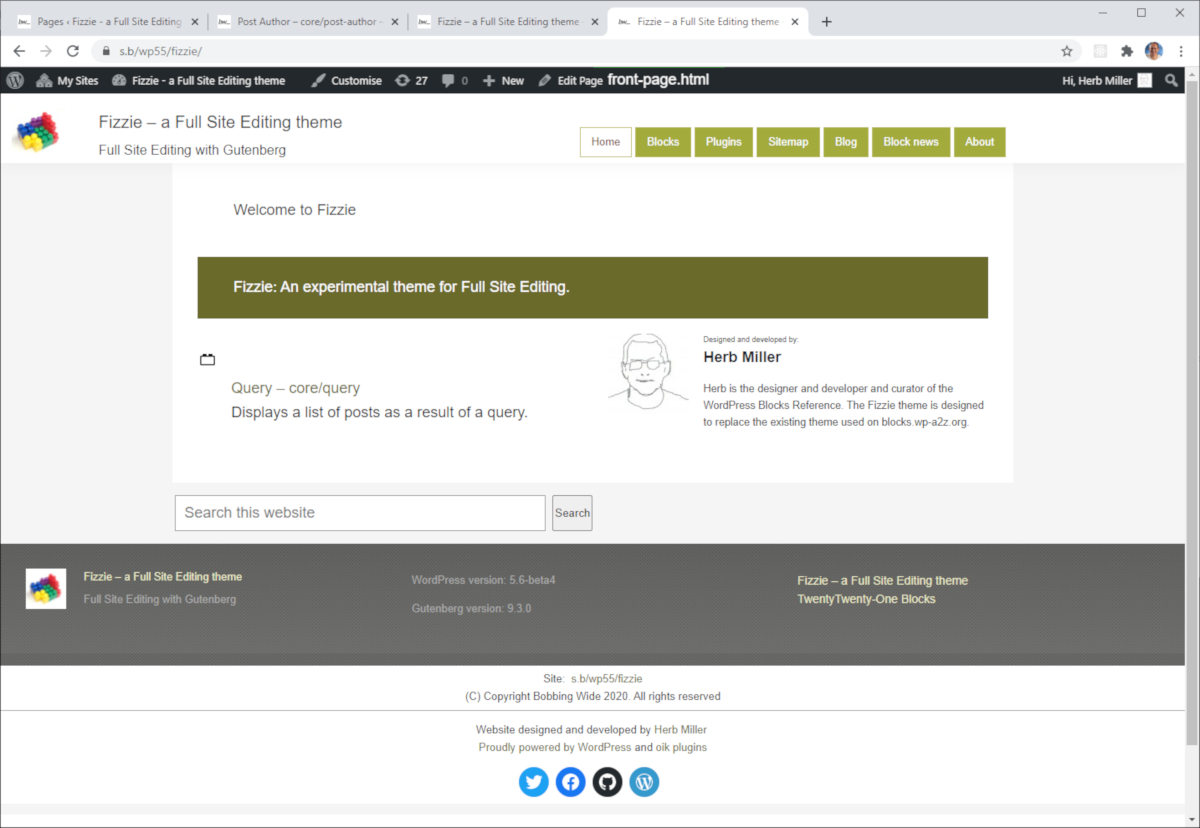
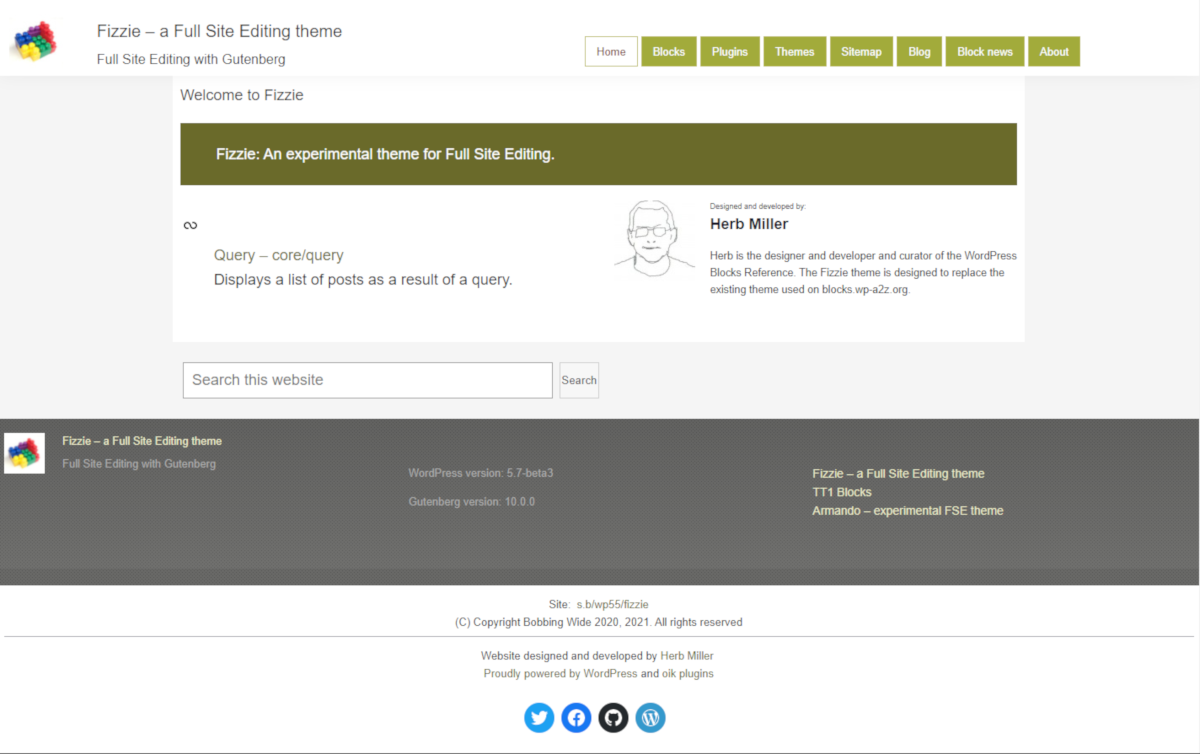
Fizzie v0.3.0 2021/02/25

diff --git a/style.css b/style.css
@@ -510,7 +510,7 @@ b, strong {
  pre {
      font-family: monospace;
  }
- 
+
  .wp-block-query-pagination-numbers {
      clear: both;
  }

diff --git a/README.md b/README.md
@@ -4,8 +4,8 @@
 * Donate link: https://www.oik-plugins.com/oik/oik-donate/
 * Tags: blocks, FSE, Gutenberg
 * Requires at least: 5.5.1
-* Tested up to: 5.6-RC2
-* Version: 0.2.0
+* Tested up to: 5.7-beta3
+* Version: 0.3.0
 * License: GPLv2 or later
 * License URI: http://www.gnu.org/licenses/gpl-2.0.html
 
@@ -26,8 +26,8 @@ Requirements:
 
 Contents:
 
-* Fifteen templates
-* Twenty five template parts
+* Seventeen templates
+* Twenty eight template parts
 
 The `block-templates` are:
 
@@ -35,6 +35,7 @@ The `block-templates` are:
 * archive - generic template used for archives: author, taxonomy, date, tag
 * archive-block - to display archives for Blocks
 * archive-oik-plugins - to display archive for Plugins
+* archive-oik-themes - to display archive for Themes
 * category - used to display the Category archive
 * front-page - used for Page Shown On Front
 * home - used for Blog Posts index page or Posts Shown on Front (when front-page not implemented)
@@ -45,6 +46,7 @@ The `block-templates` are:
 * search - Display search results
 * single - used for a single post / attachment / CPT
 * single-oik-plugins - used for a single oik-plugin
+* single-oik-themes - used for a single oik-theme
 * singular - used when single or page does not exist
 
 * See the template visualization: https://developer.wordpress.org/files/2014/10/Screenshot-2019-01-23-00.20.04.png
@@ -54,17 +56,20 @@ The `block-template-parts` are:
 * a2z-pagination - Letter pagination for blog posts
 * a2z-pagination-block - Letter pagination for blocks
 * a2z-pagination-oik-plugins - Letter pagination for plugins
+* a2z-pagination-oik-themes - Letter pagination for themes
 * archive-query - Main query for archive pages
 * breadcrumbs - Breadcrumb trail - using sb-breadcrumbs-block-based-widgets
 * category-description - Uses [archive_description] shortcode
 * category-query - To list posts in a chosen category term
 * download - To download plugins - uses [oikp_download] shortcode
+* download-theme - To download themes - uses [oikth_download] shortcode
 * footer - Final full width footer
 * footer-menu - Displays the footer menu - after the final full width footer
 * header - Displays the header: site logo, site title and tagline, header menu.
 * header-menu - Displays the header menu
 * home-part - A template part used in debugging. Classic block
 * home-query - Displays the posts on the blog page
+* i18n-rich-text.html
 * i18n-test - Internationalization, extraction and localization test file
 * information - Displays post meta data using the oik-block/fields block
 * issue-27 - test case file for issue-27
@@ -92,15 +97,11 @@ Some of these templates will be needed for other subdomains of wp-a2z.org.
 
 ## Installation 
 
-* Either install Gutenberg 9.2.2 or higher or install and build the latest Gutenberg source.
+* Either install Gutenberg 10.0.0 or higher or install and build the latest Gutenberg source.
 * Activate Gutenberg.
-* Install and activate the Fizzie theme, as you would install any other theme.
-* For Gutenberg 9.2.2 enable Full site editing, in Gutenberg > Experiments. Note: There is no need to Enable Full Site Editing Demo Templates
-* For Gutenberg 9.3.0 and above Full Site Editing will be enabled automatically.
+* Install and activate the Fizzie theme, as you would install any other theme. Full Site Editing will be enabled automatically.
 * For some of the templates and template parts to work properly you will need to install and activate the pre-requisite plugins.
 * For templates which include navigation blocks you will need to edit the supplied menus.
-
-* Note: Gutenberg 9.4.0 did not choose template parts correctly. Update to Gutenberg 9.5.0
 
 * Pre-requisite plugins: see also Notes
 
@@ -112,6 +113,22 @@ Some of these templates will be needed for other subdomains of wp-a2z.org.
 
 
 ## Change Log 
+# 0.3.0 
+* Changed: Change from overriding query-pagination to query-pagination-numbers,https://github.com/bobbingwide/fizzie/issues/18
+* Changed: Add support for oik-themes - for FSE themes,https://github.com/bobbingwide/fizzie/issues/51
+* Changed: Update experimental-theme.json to new structure - with Gutenberg 10.0.0,https://github.com/bobbingwide/fizzie/issues/3
+* Changed: relocalize updated template parts,https://github.com/bobbingwide/fizzie/issues/46
+* Changed: Style radio buttons with width:auto
+* Changed: Update Copyright years in the footer
+* Changed: Workaround to prevent recursion occurring in the editor,https://github.com/bobbingwide/fizzie/issues/49
+* Changed: Move metadates template part back into the group, with className alignfull,https://github.com/bobbingwide/fizzie/issues/44
+* Changed: Allow nested template parts with class alignfull to use 100% width,https://github.com/bobbingwide/fizzie/issues/44
+* Changed: Remove workaround for post-excerpt,https://github.com/bobbingwide/fizzie/issues/25
+* Changed: Improve styling of blog display ( home.html ),https://github.com/bobbingwide/fizzie/issues/4
+* Tested: With Gutenberg 10.0.2
+* Tested: With WordPress 5.7-beta3
+* Tested: With PHP 8.0
+
 # 0.2.0 
 * Added: Extracted and localized to UK English ( en_GB ) and the obfuscated bbboing language ( bb_BB ),https://github.com/bobbingwide/fizzie/issues/46
 * Changed: Add more templates to test the template hierarchy logic: page-13, page-about and search,https://github.com/bobbingwide/fizzie/issues/38
@@ -312,7 +329,7 @@ These are the ones that include the navigational blocks.
 
 
 ## Copyright 
-(C) Copyright Herb Miller, Bobbing Wide 2020
+(C) Copyright Herb Miller, Bobbing Wide 2020, 2021
 
 * This program is free software: you can redistribute it and/or modify
 it under the terms of the GNU General Public License as published by
